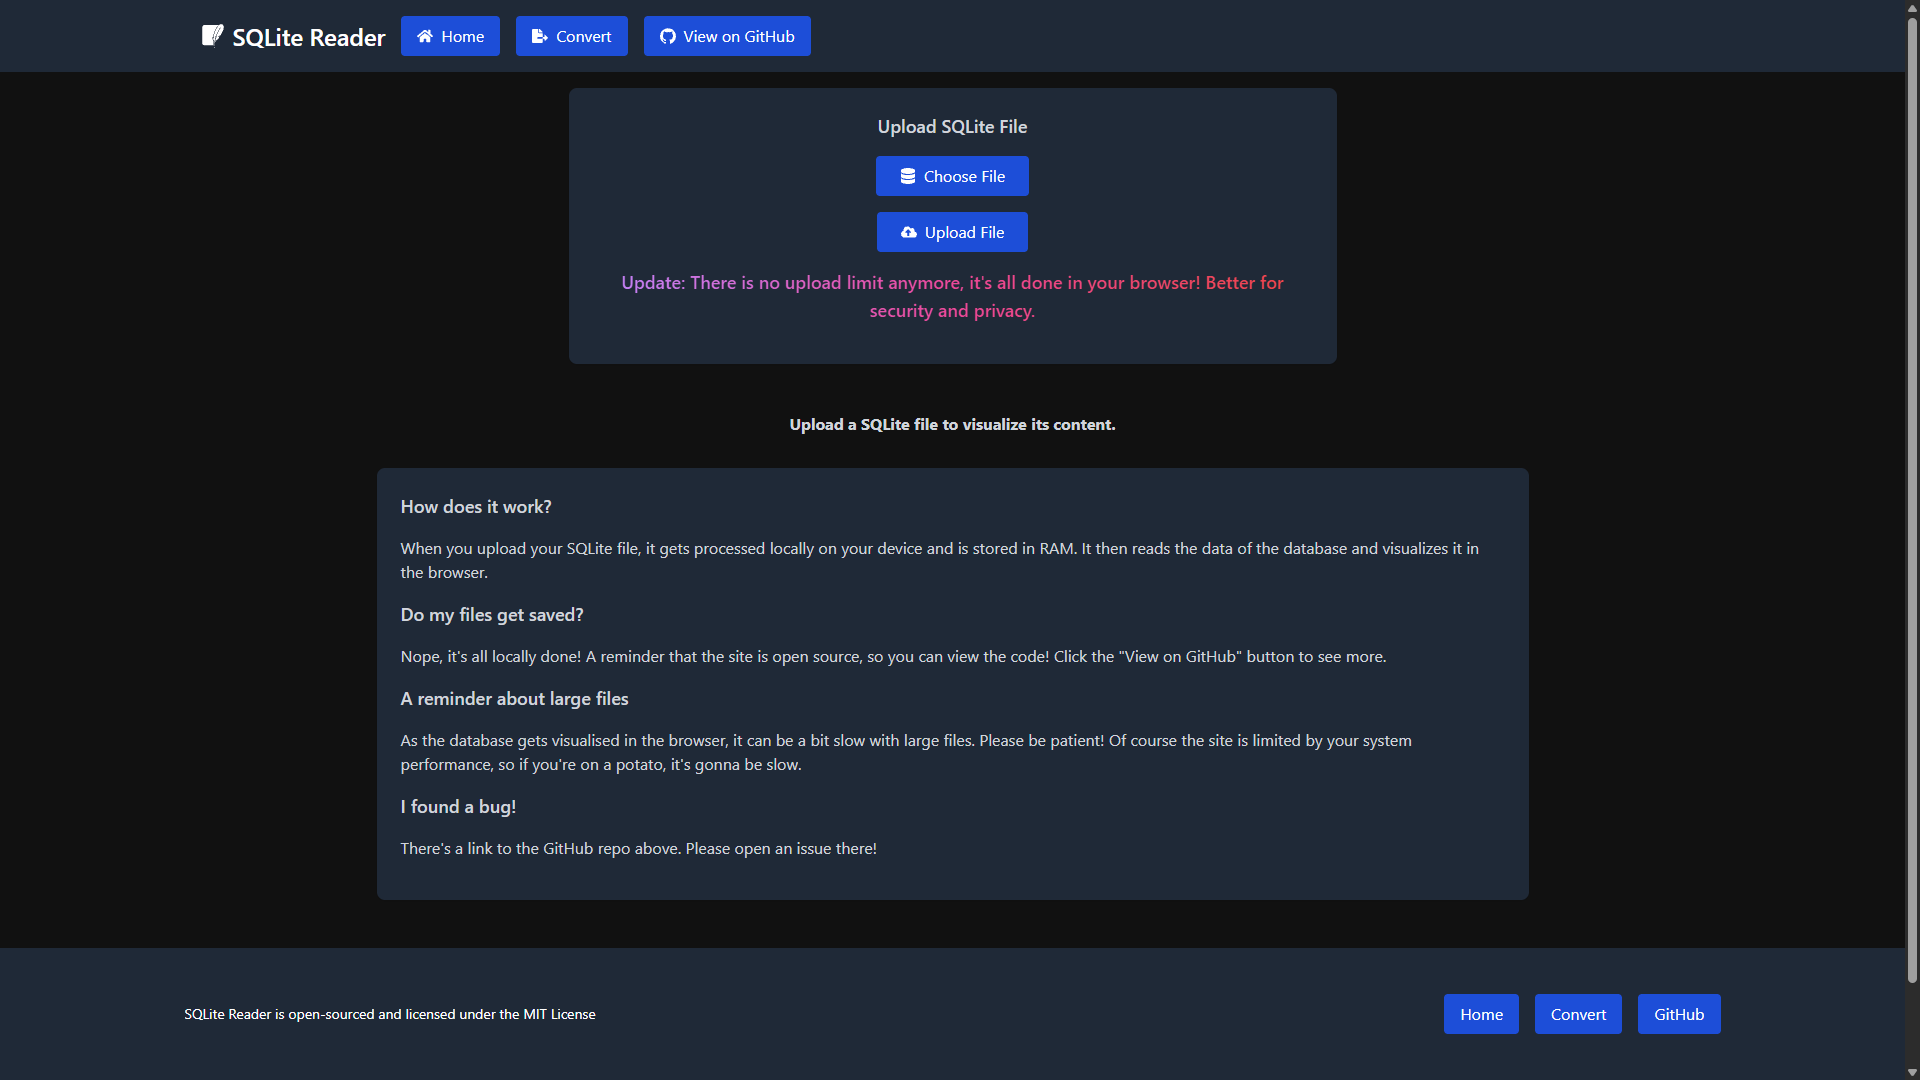
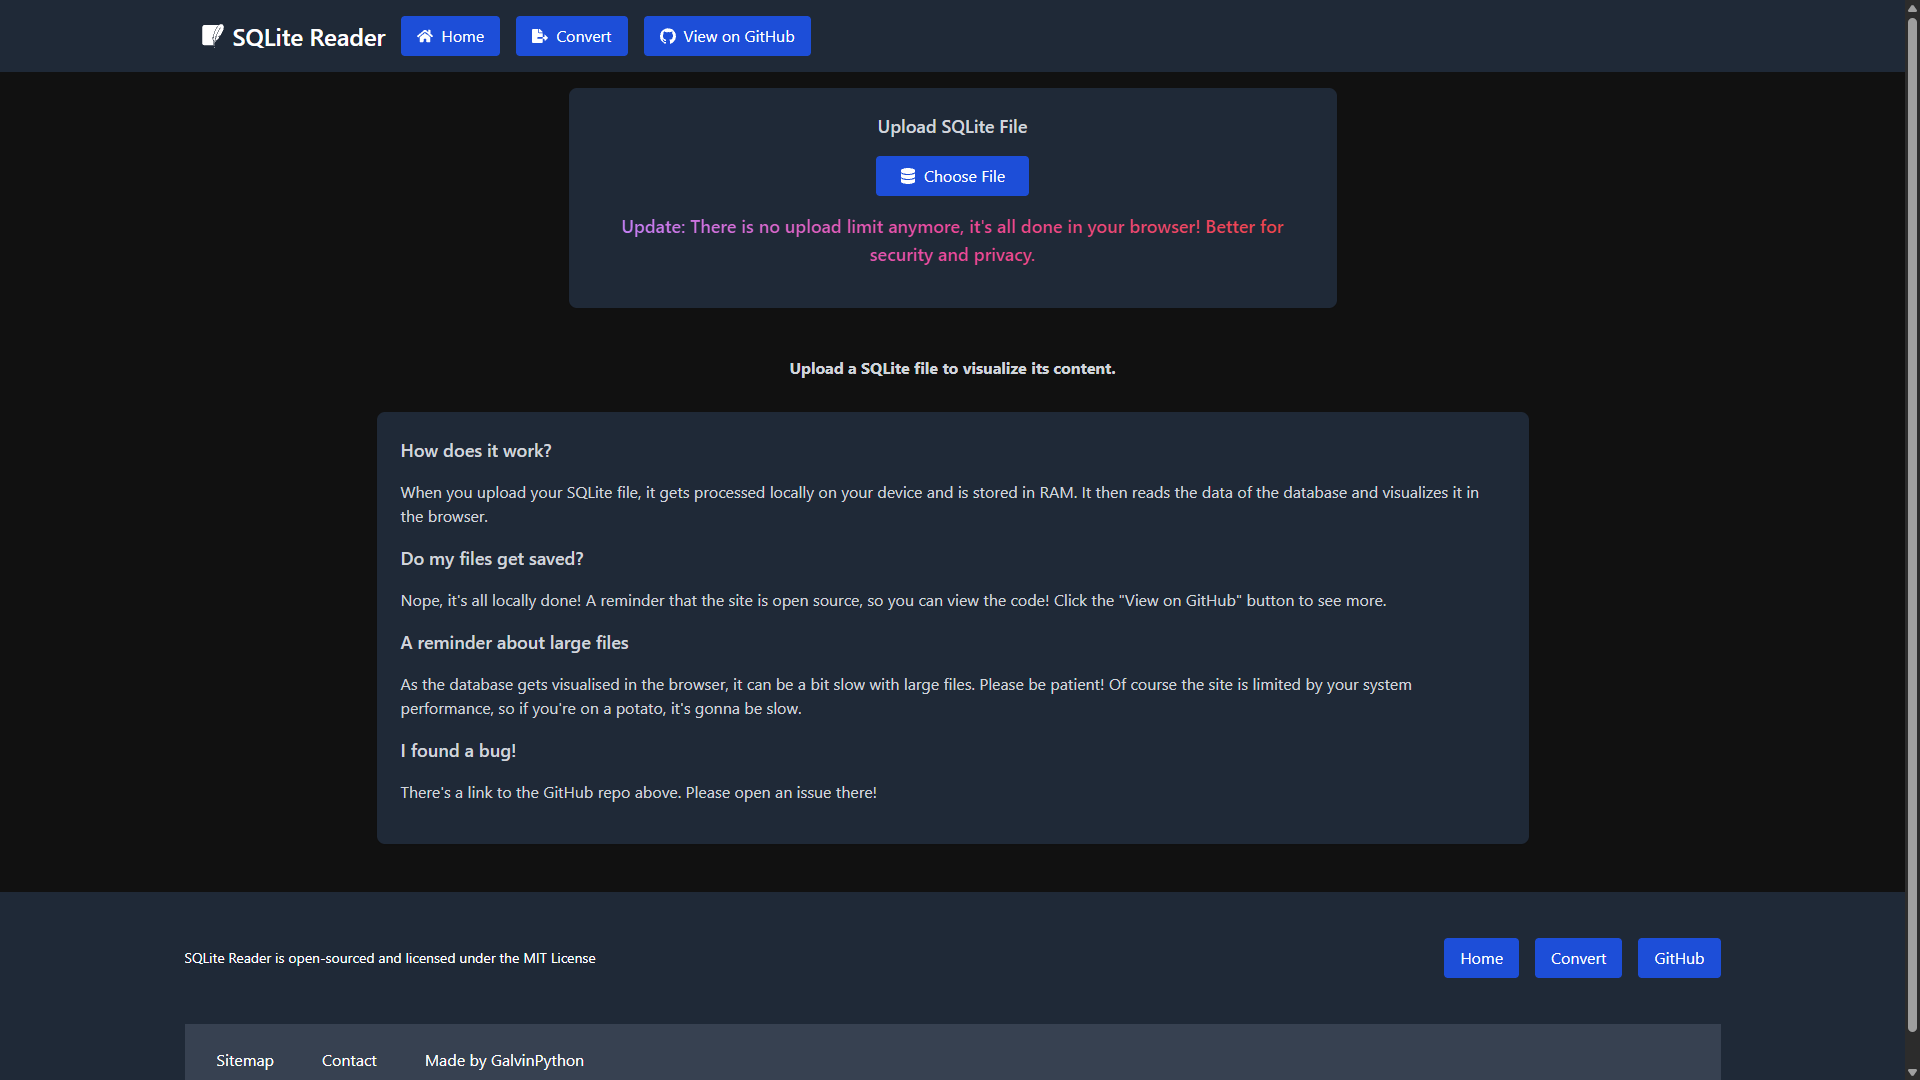
feat: improved upload flow

Changed region(s): [[0.0, 0.1833, 1.0, 1.0], [0.9688, 0.9167, 1.0, 0.9472]]

diff --git a/pages/index.tsx b/pages/index.tsx
@@ -1,7 +1,7 @@
 "use client";
 
 import React, { useState, useEffect } from "react";
-import { FaCloudUploadAlt, FaDatabase } from "react-icons/fa";
+import { FaDatabase } from "react-icons/fa";
 import initSqlJs from "sql.js";
 import Head from "next/head";
 
@@ -52,60 +52,58 @@ export default function Home() {
         document.documentElement.classList.toggle("dark", isDarkMode);
     }, [isDarkMode]);
 
-    const handleFileChange = (e: React.ChangeEvent<HTMLInputElement>) => {
+    const handleFileChange = async (e: React.ChangeEvent<HTMLInputElement>) => {
         if (e.target.files && e.target.files.length > 0) {
-            setFile(e.target.files[0]);
-        }
-    };
+            const selectedFile = e.target.files[0];
 
-    const handleUpload = async () => {
-        if (!file) return alert("Please select a file first.");
+            setFile(selectedFile);
 
-        const reader = new FileReader();
+            const reader = new FileReader();
 
-        reader.onload = async (e) => {
-            const arrayBuffer = e.target?.result as ArrayBuffer;
+            reader.onload = async (event) => {
+                const arrayBuffer = event.target?.result as ArrayBuffer;
 
-            if (!arrayBuffer) return;
+                if (!arrayBuffer) return;
 
-            const SQL = await initSqlJs();
-            const database = new SQL.Database(new Uint8Array(arrayBuffer));
+                const SQL = await initSqlJs();
+                const database = new SQL.Database(new Uint8Array(arrayBuffer));
 
-            // Get all table names
-            const tablesResult = database.exec(
-                "SELECT name FROM sqlite_master WHERE type='table'",
-            );
+                // Get all table names
+                const tablesResult = database.exec(
+                    "SELECT name FROM sqlite_master WHERE type='table'",
+                );
 
-            if (tablesResult.length === 0) return;
+                if (tablesResult.length === 0) return;
 
-            const tableNames = tablesResult[0].values.flat() as string[];
+                const tableNames = tablesResult[0].values.flat() as string[];
 
-            setActiveTab(tableNames[0]); // Set the first table as active
+                setActiveTab(tableNames[0]); // Set the first table as active
 
-            // Fetch data for each table
-            const dbData: { [key: string]: any[] } = {};
+                // Fetch data for each table
+                const dbData: { [key: string]: any[] } = {};
 
-            for (const table of tableNames) {
-                const result = database.exec(`SELECT * FROM ${table}`);
+                for (const table of tableNames) {
+                    const result = database.exec(`SELECT * FROM ${table}`);
 
-                if (result.length > 0) {
-                    const columns = result[0].columns;
-                    const rows = result[0].values.map((row) =>
-                        Object.fromEntries(
-                            columns.map((col, i) => [col, row[i]]),
-                        ),
-                    );
+                    if (result.length > 0) {
+                        const columns = result[0].columns;
+                        const rows = result[0].values.map((row) =>
+                            Object.fromEntries(
+                                columns.map((col, i) => [col, row[i]]),
+                            ),
+                        );
 
-                    dbData[table] = rows;
-                } else {
-                    dbData[table] = [];
+                        dbData[table] = rows;
+                    } else {
+                        dbData[table] = [];
+                    }
                 }
-            }
 
-            setData(dbData);
-        };
+                setData(dbData);
+            };
 
-        reader.readAsArrayBuffer(file);
+            reader.readAsArrayBuffer(selectedFile);
+        }
     };
 
     const renderTable = (tableData: any[]) => {
@@ -171,22 +169,34 @@ export default function Home() {
                     name="description"
                 />
                 <meta content="index, follow" name="robots" />
-                <title>SQLite Database Viewer</title>
-                <meta content="SQLite Database Viewer" property="og:title" />
+                <title>Free Online SQLite Database Viewer</title>
+                <meta
+                    content="Free Online SQLite Database Viewer"
+                    property="og:title"
+                />
                 <meta
                     content="Need to inspect an SQLite database without hassle? Our free online viewer lets you upload and browse your data instantly—no downloads, no setup. Open, search, and analyze your database right in your web browser with ease!"
                     property="og:description"
                 />
                 <meta content="website" property="og:type" />
                 <meta content="https://sqlitereader.com" property="og:url" />
-                <meta content="./screenshot_home.png" property="og:image" />
+                <meta
+                    content="https://sqlitereader.com/screenshot_home.png"
+                    property="og:image"
+                />
                 <meta content="summary_large_image" name="twitter:card" />
-                <meta content="SQLite Database Viewer" name="twitter:title" />
+                <meta
+                    content="Free Online SQLite Database Viewer"
+                    name="twitter:title"
+                />
                 <meta
                     content="Need to inspect an SQLite database without hassle? Our free online viewer lets you upload and browse your data instantly—no downloads, no setup. Open, search, and analyze your database right in your web browser with ease!"
                     name="twitter:description"
                 />
-                <meta content="./screenshot_home.png" name="twitter:image" />
+                <meta
+                    content="https://sqlitereader.com/screenshot_home.png"
+                    name="twitter:image"
+                />
             </Head>
             <div style={{ color: "var(--text-color)" }}>
                 <Navbar />
@@ -208,7 +218,7 @@ export default function Home() {
                                 onChange={handleFileChange}
                             />
                             <label
-                                className="px-6 py-2 rounded hover:bg-blue-600 transition inline-flex items-center gap-2"
+                                className="px-6 py-2 rounded hover:bg-blue-600 transition inline-flex items-center gap-2 mb-4"
                                 htmlFor="file-upload"
                                 style={{
                                     backgroundColor: "var(--button-bg)",
@@ -226,17 +236,6 @@ export default function Home() {
                                     </span>
                                 </p>
                             )}
-                            <button
-                                className="px-6 py-2 rounded hover:bg-blue-600 transition inline-flex items-center gap-2 mb-4"
-                                style={{
-                                    backgroundColor: "var(--button-bg)",
-                                    color: "var(--button-text-color)",
-                                }}
-                                onClick={handleUpload}
-                            >
-                                <FaCloudUploadAlt />
-                                Upload File
-                            </button>
                         </div>
 
                         <p className="text-lg font-semibold mb-4 text-center bg-gradient-to-r from-purple-400 via-pink-500 to-red-500 bg-clip-text text-transparent">

diff --git a/pages/convert.tsx b/pages/convert.tsx
@@ -194,22 +194,36 @@ export default function Home() {
                     name="description"
                 />
                 <meta content="index, follow" name="robots" />
-                <title>Convert - SQLite Database Viewer</title>
-                <meta content="SQLite Database Viewer" property="og:title" />
+                <title>
+                    Free Online SQLite File Converter - SQLite Database Viewer
+                </title>
+                <meta
+                    content="Free Online SQLite File Converter - SQLite Database Viewer"
+                    property="og:title"
+                />
                 <meta
                     content="Easily convert and export your SQLite database to CSV, JSON, SQL, and more — right in your web browser! No downloads, no setup. Just upload your file, select a format, and export your data instantly, all for free!"
                     property="og:description"
                 />
                 <meta content="website" property="og:type" />
                 <meta content="https://sqlitereader.com" property="og:url" />
-                <meta content="./screenshot_convert.png" property="og:image" />
+                <meta
+                    content="https://sqlitereader.com/screenshot_convert.png"
+                    property="og:image"
+                />
                 <meta content="summary_large_image" name="twitter:card" />
-                <meta content="SQLite Database Viewer" name="twitter:title" />
+                <meta
+                    content="Free Online SQLite File Converter - SQLite Database Viewer"
+                    name="twitter:title"
+                />
                 <meta
                     content="Easily convert and export your SQLite database to CSV, JSON, SQL, and more — right in your web browser! No downloads, no setup. Just upload your file, select a format, and export your data instantly, all for free!"
                     name="twitter:description"
                 />
-                <meta content="./screenshot_convert.png" name="twitter:image" />
+                <meta
+                    content="https://sqlitereader.com/screenshot_convert.png"
+                    name="twitter:image"
+                />
             </Head>
             <div style={{ color: "var(--text-color)" }}>
                 <Navbar />

diff --git a/README.md b/README.md
@@ -4,10 +4,14 @@
 
 # Changelog
 
+## 16/04/2025
+- Simplified the upload system on the `index.tsx` page to automatically show the database after the file is selected instead of waiting for the user to click the upload button for confirmation
+
 ## 25/03/2025
 
 - Added puppeteer script to generate embed images
     - Storytime: MicroLink uses DigitialOcean for its services, however I had to block DigitalOcean as I was getting 1,000+ requests an hour sometimes trying to "exploit" wordpress stuff, so I just straight up blocked the ASN :p
+    - Embed script requires port 8010 to run on so make sure to **build** the site first then run it alongside the embed script
 
 ## 18/03/2025
 
